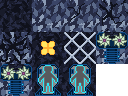
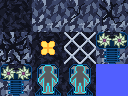
Add sky

Changed region(s): [[0.75, 0.6562, 1.0, 1.0]]

diff --git a/src/game.rs b/src/game.rs
@@ -95,17 +95,31 @@ impl Game
 		}
 		else
 		{
+			let mut pop = false;
 			if let Some(action) = self.subscreens.input(state, event)?
 			{
 				match action
 				{
 					ui::Action::MainMenu =>
 					{
-						self.map.save(state)?;
 						return Ok(Some(game_state::NextScreen::Menu));
+					}
+					ui::Action::QuickSave =>
+					{
+						self.map.save(state)?;
+						pop = true;
+					}
+					ui::Action::QuickLoad =>
+					{
+						self.map.load(state)?;
+						pop = true;
 					}
 					_ => (),
 				}
+			}
+			if pop
+			{
+				self.subscreens.pop();
 			}
 			if self.subscreens.is_empty()
 			{
@@ -408,29 +422,26 @@ impl Map
 	fn logic(&mut self, state: &mut game_state::GameState)
 	-> Result<Option<game_state::NextScreen>>
 	{
-		if self.world.contains(self.player)
+		if state
+			.controls
+			.get_action_state(game_state::Action::QuickSave)
+			> 0.5
 		{
-			if state
-				.controls
-				.get_action_state(game_state::Action::QuickSave)
-				> 0.5
-			{
-				self.save(state)?;
-			}
-			state
-				.controls
-				.clear_action_state(game_state::Action::QuickSave);
-			if state
-				.controls
-				.get_action_state(game_state::Action::QuickLoad)
-				> 0.5
-			{
-				self.load(state)?;
-			}
-			state
-				.controls
-				.clear_action_state(game_state::Action::QuickLoad);
+			self.save(state)?;
 		}
+		state
+			.controls
+			.clear_action_state(game_state::Action::QuickSave);
+		if state
+			.controls
+			.get_action_state(game_state::Action::QuickLoad)
+			> 0.5
+		{
+			self.load(state)?;
+		}
+		state
+			.controls
+			.clear_action_state(game_state::Action::QuickLoad);
 
 		let mut to_die = vec![];
 		let mut spawn_fns: Vec<
@@ -1173,6 +1184,7 @@ impl Map
 						tiles::TileKind::Empty
 						| tiles::TileKind::Torch
 						| tiles::TileKind::Border
+						| tiles::TileKind::Sky
 						| tiles::TileKind::Grinder => (),
 						tiles::TileKind::Support =>
 						{

diff --git a/src/tiles.rs b/src/tiles.rs
@@ -29,6 +29,7 @@ pub enum TileKind
 	Border,
 	Grinder,
 	Jaunter,
+	Sky,
 }
 
 impl TileKind
@@ -56,6 +57,7 @@ impl TileKind
 			TileKind::Support => (6, 0.0),
 			TileKind::Grinder => (7 + ((time * 3.) as i32 % 2), 0.),
 			TileKind::Jaunter => (9 + ((time * 3.) as i32 % 2), 0.),
+			TileKind::Sky => (11, 0.),
 		}
 	}
 
@@ -64,7 +66,7 @@ impl TileKind
 		match self
 		{
 			TileKind::Empty | TileKind::Torch | TileKind::Support | TileKind::Jaunter => false,
-			TileKind::Rock { .. } | TileKind::Border | TileKind::Grinder => true,
+			TileKind::Rock { .. } | TileKind::Border | TileKind::Grinder | TileKind::Sky => true,
 		}
 	}
 }
@@ -120,11 +122,15 @@ impl Tiles
 						*intrinsic_support = over_empty;
 					}
 				}
+				let tile_idx = y * width + x;
 
 				if x == 0 || x == width - 1 || y == 0 || y == height - 1
 				{
-					let tile_idx = y * width + x;
 					tiles[tile_idx as usize] = TileKind::Border;
+				}
+				if y < 3
+				{
+					tiles[tile_idx as usize] = TileKind::Sky;
 				}
 			}
 		}
@@ -549,6 +555,7 @@ impl Tiles
 				| TileKind::Support
 				| TileKind::Border
 				| TileKind::Grinder
+				| TileKind::Sky
 				| TileKind::Jaunter => None,
 			};
 			if let Some(new_tile) = new_tile

diff --git a/src/ui.rs b/src/ui.rs
@@ -40,6 +40,8 @@ pub enum Action
 	Resume,
 	Quit,
 	Back,
+	QuickSave,
+	QuickLoad,
 	Forward(fn(&mut game_state::GameState) -> Result<SubScreen>),
 	ToggleFullscreen,
 	ToggleFracScale,
@@ -545,7 +547,21 @@ impl InGameMenu
 				&[ui::Widget::Button(ui::Button::new(
 					w,
 					h,
-					"Save and Quit",
+					"Load",
+					Action::QuickLoad,
+					THEME.clone(),
+				))],
+				&[ui::Widget::Button(ui::Button::new(
+					w,
+					h,
+					"Save",
+					Action::QuickSave,
+					THEME.clone(),
+				))],
+				&[ui::Widget::Button(ui::Button::new(
+					w,
+					h,
+					"Quit",
 					Action::MainMenu,
 					THEME.clone(),
 				))],
